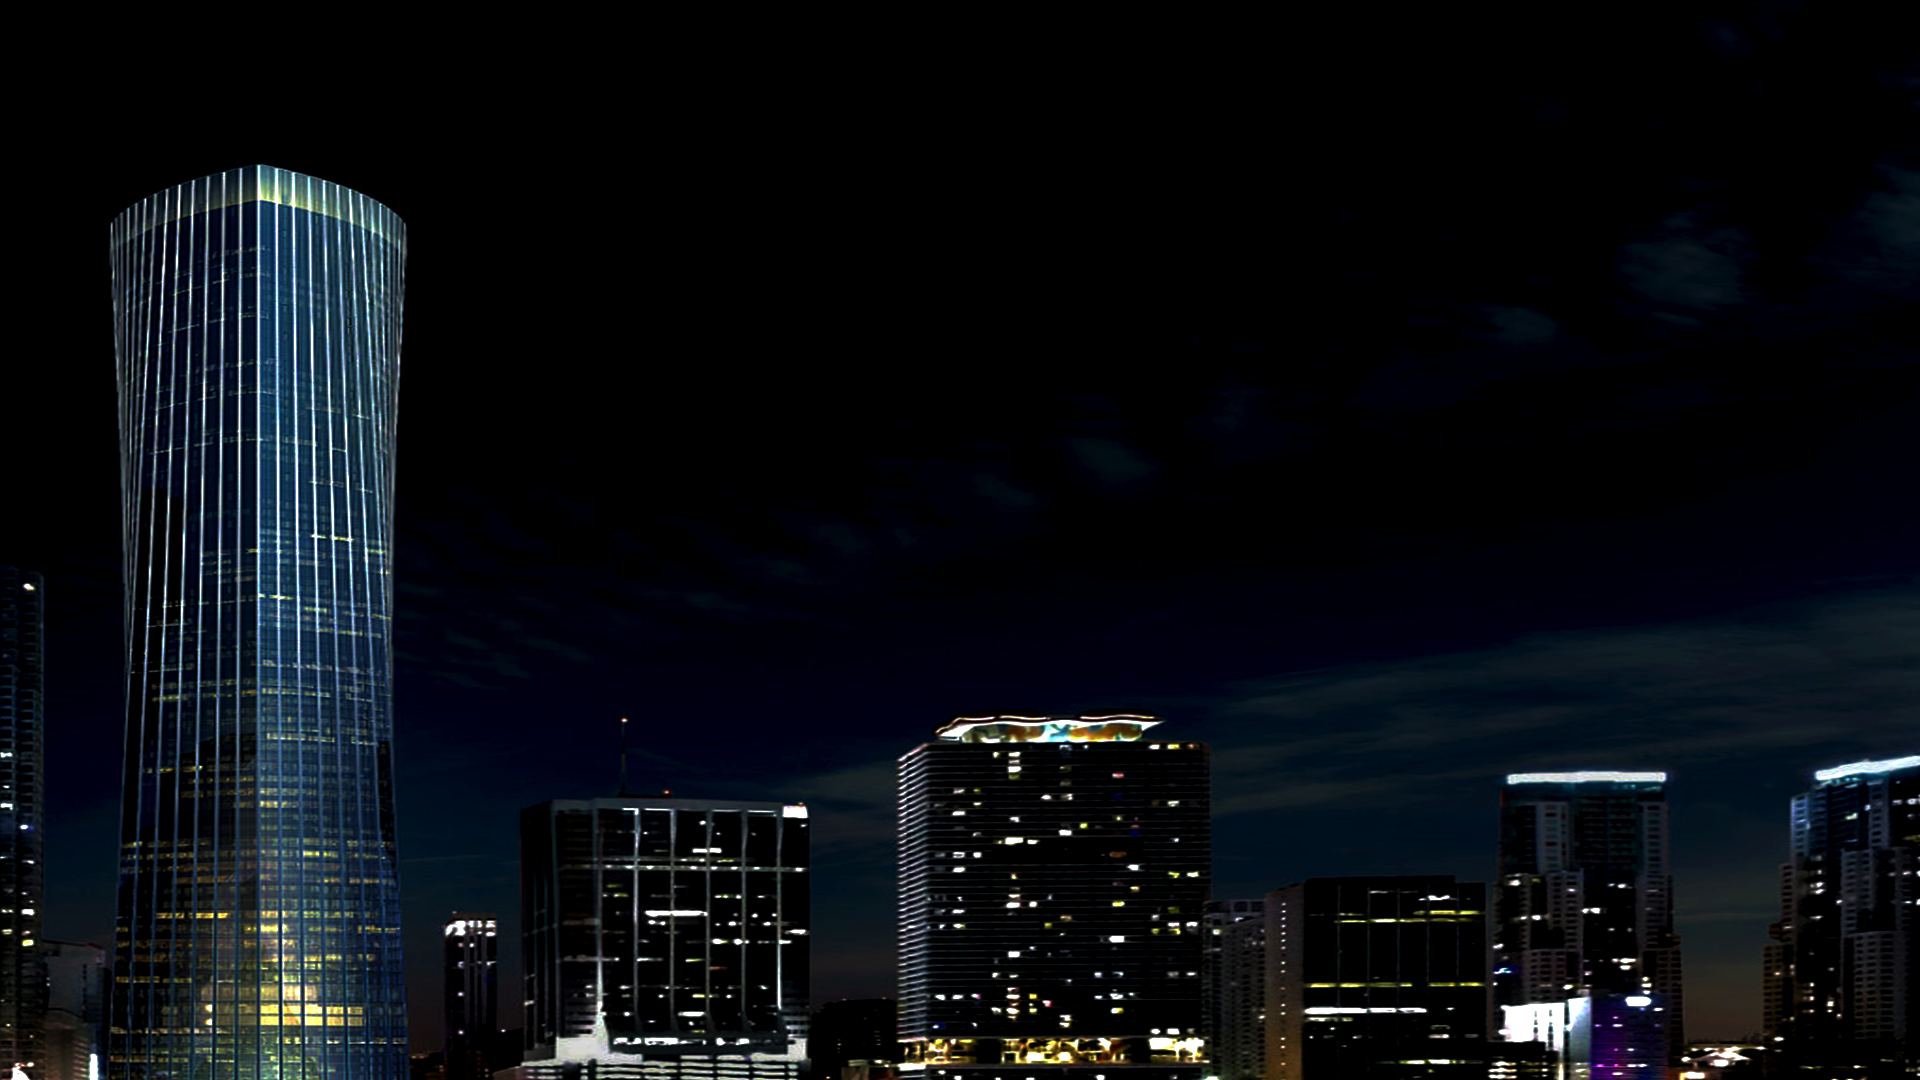
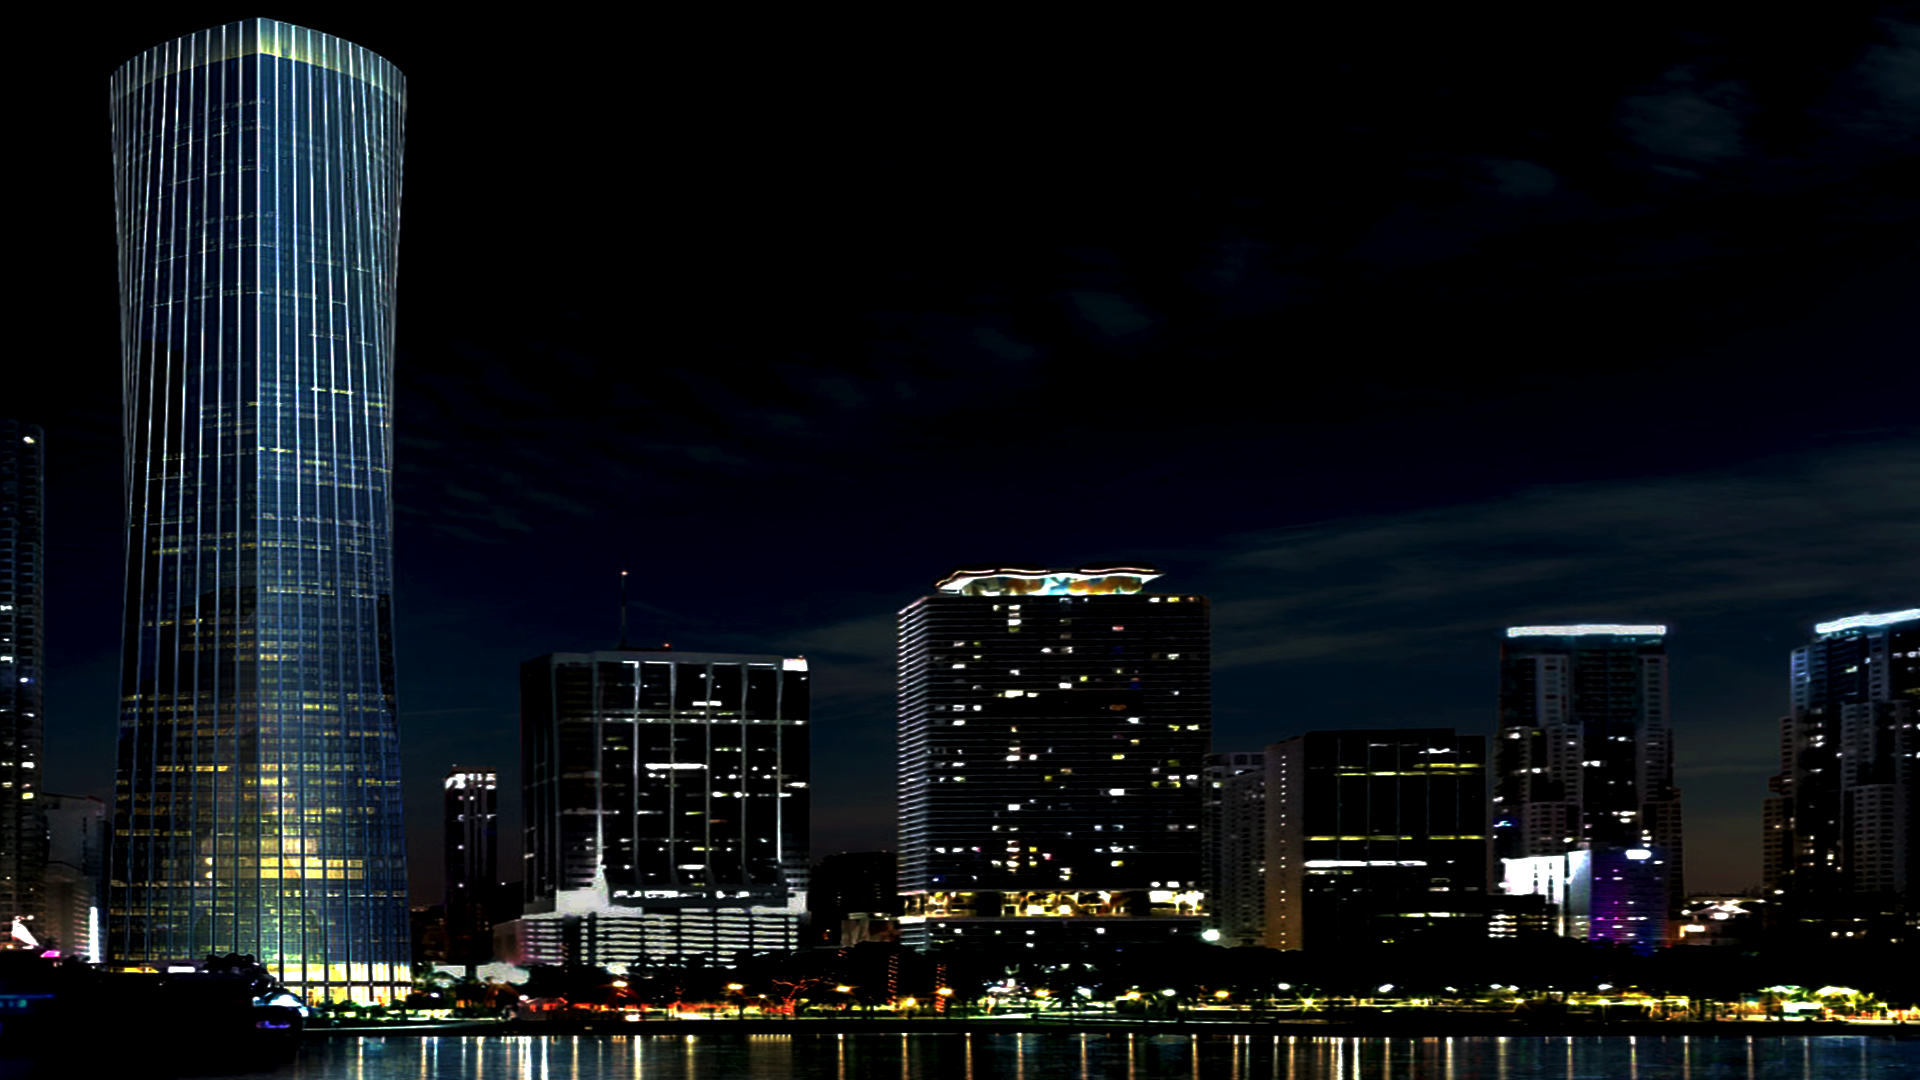
changed skyline image

diff --git a/public_html/css/stylesheet.css b/public_html/css/stylesheet.css
@@ -400,7 +400,7 @@ animation: move-clouds-back 200s linear infinite;
 }
 
 .contact {
-	background-image: url("../images/pwp-skyline.jpg");
+	background-image: url("../images/pwp-contact.png");
 	-
 	background-size: cover;
 
